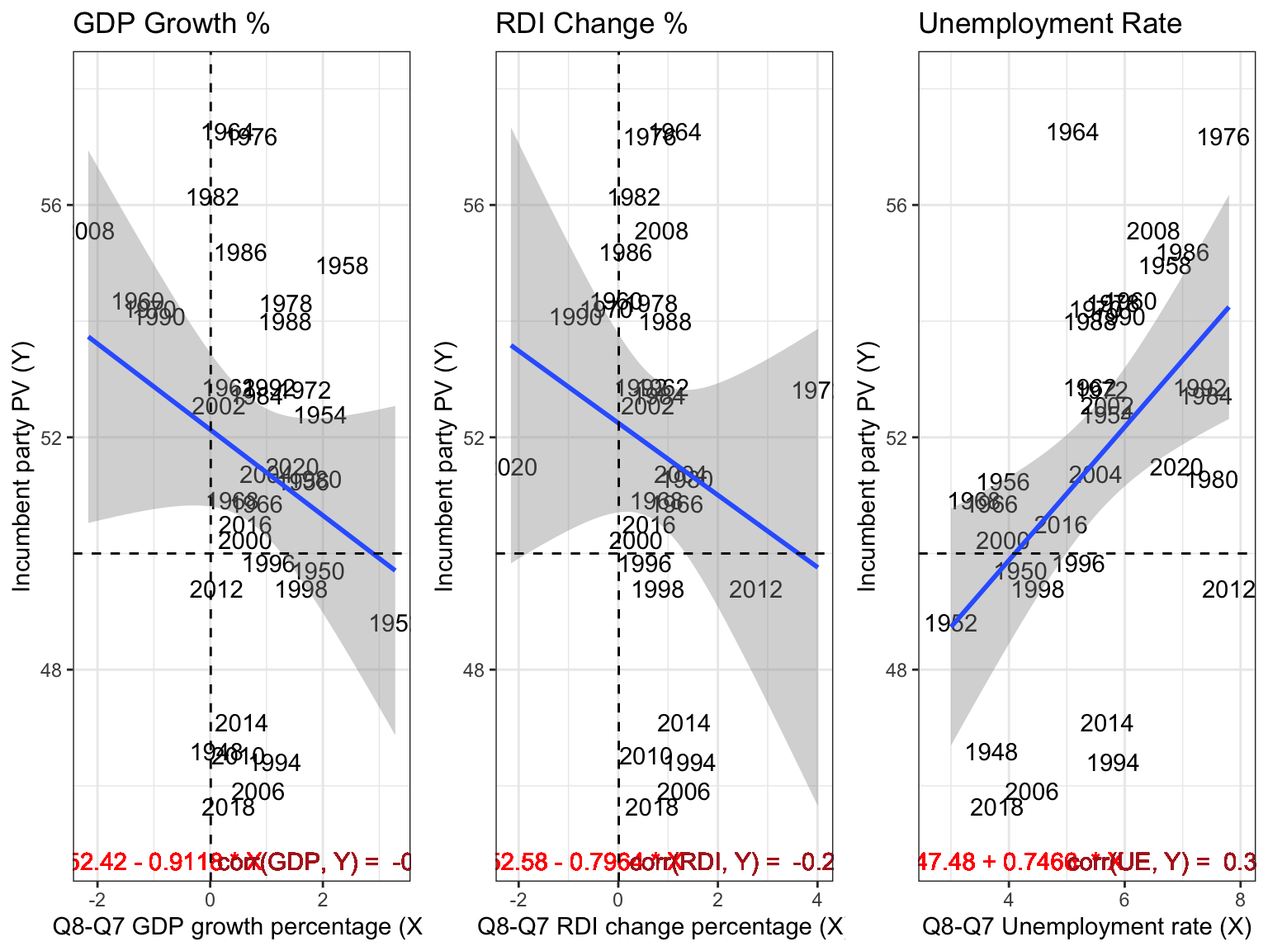
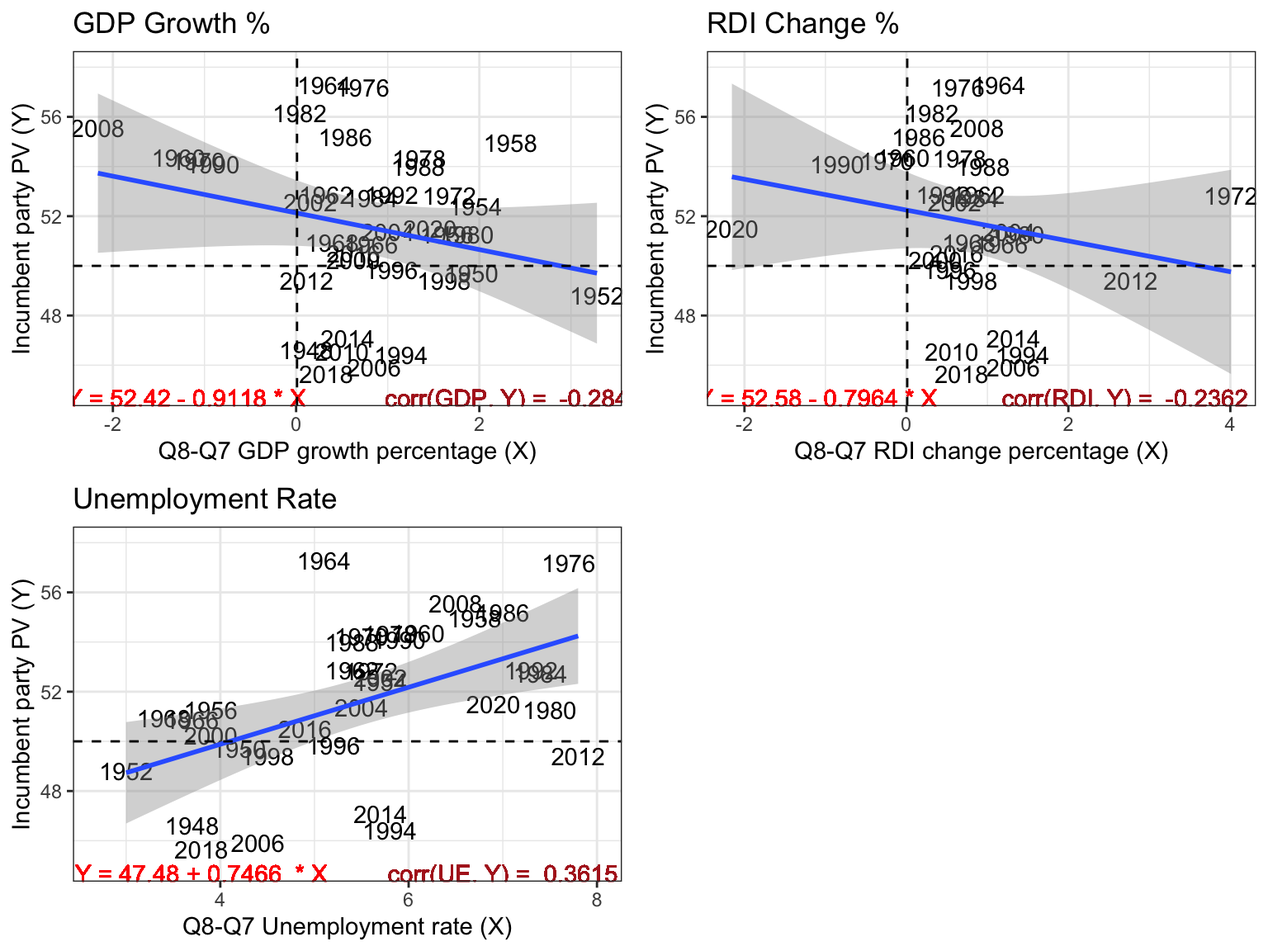
Blog post 2 update

diff --git a/public/post/2022-09-19-local-and-national-economy/index.html b/public/post/2022-09-19-local-and-national-economy/index.html
@@ -77,72 +77,49 @@
 <pre class="r"><code>lm_GDP &lt;- lm(H_incumbent_party_majorvote_pct ~ GDP_growth_pct, data = newdf)
 lm_RDI &lt;- lm(H_incumbent_party_majorvote_pct ~ DSPIC_change_pct, data = newdf)
 lm_UE &lt;- lm(H_incumbent_party_majorvote_pct ~ UNRATE, data = newdf)
-lm_model &lt;- lm(H_incumbent_party_majorvote_pct ~ GDP_growth_pct + DSPIC_change_pct +  GDP_growth_qt + UNRATE, data = newdf)
+lm_model &lt;- lm(H_incumbent_party_majorvote_pct ~ GDP_growth_pct + DSPIC_change_pct + UNRATE + GDP_growth_qt, data = newdf)
 
-stargazer(lm_GDP, lm_RDI, lm_UE, lm_model, title = &quot;Results&quot;, type = &quot;text&quot;, column.labels = c(&quot;GDP&quot;, &quot;RDI&quot;, &quot;UE&quot;, &quot;Model 1&quot;))</code></pre>
+stargazer(lm_GDP, lm_RDI, lm_UE, lm_model, title = &quot;Results&quot;, type = &quot;text&quot;, column.labels = c(&quot;GDP&quot;, &quot;RDI&quot;, &quot;UE&quot;, &quot;Model 1&quot;), covariate.labels = c(&quot;GDP Growth Percentage&quot;, &quot;RDI Change Percentage&quot;, &quot;Unemployment Rate&quot;, &quot;GDP Growth Absolute&quot;))</code></pre>
 <pre><code>## 
 ## Results
-## ====================================================================================================
-##                                                   Dependent variable:                               
-##                     --------------------------------------------------------------------------------
-##                                             H_incumbent_party_majorvote_pct                         
-##                             GDP                RDI                  UE                Model 1       
-##                             (1)                (2)                 (3)                  (4)         
-## ----------------------------------------------------------------------------------------------------
-## GDP_growth_pct            -0.912*                                                      2.903*       
-##                           (0.520)                                                     (1.565)       
-##                                                                                                     
-## DSPIC_change_pct                              -0.796                                  -1.577**      
-##                                              (0.609)                                  (0.675)       
-##                                                                                                     
-## GDP_growth_qt                                                                        -0.036***      
-##                                                                                       (0.013)       
-##                                                                                                     
-## UNRATE                                                           0.747**               0.420        
-##                                                                  (0.325)              (0.337)       
-##                                                                                                     
-## Constant                 52.424***          52.578***           47.480***            51.179***      
-##                           (0.656)            (0.760)             (1.940)              (2.205)       
-##                                                                                                     
-## ----------------------------------------------------------------------------------------------------
-## Observations                37                  31                  37                   31         
-## R2                         0.081              0.056               0.131                0.386        
-## Adjusted R2                0.054              0.023               0.106                0.292        
-## Residual Std. Error   3.270 (df = 35)    3.400 (df = 29)     3.180 (df = 35)      2.895 (df = 26)   
-## F Statistic         3.071* (df = 1; 35) 1.713 (df = 1; 29) 5.263** (df = 1; 35) 4.094** (df = 4; 26)
-## ====================================================================================================
-## Note:                                                                    *p&lt;0.1; **p&lt;0.05; ***p&lt;0.01</code></pre>
+## ======================================================================================================
+##                                                     Dependent variable:                               
+##                       --------------------------------------------------------------------------------
+##                                               H_incumbent_party_majorvote_pct                         
+##                               GDP                RDI                  UE                Model 1       
+##                               (1)                (2)                 (3)                  (4)         
+## ------------------------------------------------------------------------------------------------------
+## GDP Growth Percentage       -0.912*                                                      2.903*       
+##                             (0.520)                                                     (1.565)       
+##                                                                                                       
+## RDI Change Percentage                           -0.796                                  -1.577**      
+##                                                (0.609)                                  (0.675)       
+##                                                                                                       
+## Unemployment Rate                                                  0.747**               0.420        
+##                                                                    (0.325)              (0.337)       
+##                                                                                                       
+## GDP Growth Absolute                                                                    -0.036***      
+##                                                                                         (0.013)       
+##                                                                                                       
+## Constant                   52.424***          52.578***           47.480***            51.179***      
+##                             (0.656)            (0.760)             (1.940)              (2.205)       
+##                                                                                                       
+## ------------------------------------------------------------------------------------------------------
+## Observations                  37                  31                  37                   31         
+## R2                           0.081              0.056               0.131                0.386        
+## Adjusted R2                  0.054              0.023               0.106                0.292        
+## Residual Std. Error     3.270 (df = 35)    3.400 (df = 29)     3.180 (df = 35)      2.895 (df = 26)   
+## F Statistic           3.071* (df = 1; 35) 1.713 (df = 1; 29) 5.263** (df = 1; 35) 4.094** (df = 4; 26)
+## ======================================================================================================
+## Note:                                                                      *p&lt;0.1; **p&lt;0.05; ***p&lt;0.01</code></pre>
 <p>My development of Model 1 finds that GDP, RDI, and unemployment all influence House incumbent vote share, but in varying directions and with varying levels of statistical significance. For GDP growth (%), Model 1 anticipates that as it grows by 1, House incumbent vote share will too by 2.9, which makes more sense. However, for GDP growth (absolute) and unemployment rate, increases in these are still associated with decreases in incumbent vote share.</p>
 <p>These results are again fascinating, as they are counter-intuitive and don’t follow the traditional knowledge political scientists lean on concerning retrospective voting, economic performance, and incumbent success. That said, Model 1 has an R-squared value of 0.386, which is much higher than the univariate R-squared values previously found.</p>
-<p><img src="http://example.org/post/2022-09-19-local-and-national-economy/index_files/figure-html/unnamed-chunk-5-1.png" width="30%" style="display: block; margin: auto;" /></p>
+<p><img src="http://example.org/post/2022-09-19-local-and-national-economy/index_files/figure-html/unnamed-chunk-5-1.png" width="672" style="display: block; margin: auto;" /></p>
 <p>To evaluate the performance of my model and choice of model, I check the residuals. As shown below, they are roughly normally distributed around a center point of 0. This tells me that the form of Model 1 (linear) is adequate.</p>
-<p><img src="http://example.org/post/2022-09-19-local-and-national-economy/index_files/figure-html/unnamed-chunk-6-1.png" width="70%" style="display: block; margin: auto;" /></p>
-<p><img src="http://example.org/post/2022-09-19-local-and-national-economy/index_files/figure-html/unnamed-chunk-8-1.png" width="70%" style="display: block; margin: auto;" />
-After checking that Model 1 performs well after being tested with 1,000 runs of cross-validation, with a mean-error of roughly 1, I move to applying Model 1 to the most recent Q8 data available for the national economic variables in the model. This data comes from 2020, where</p>
-<pre class="r"><code>GDP_new &lt;- GDPquarterly_df %&gt;%
-    subset(year == 2020 &amp; quarter_cycle == 8) %&gt;%
-    select(GDP_growth_pct)
-UNRATE_new &lt;- UEquarterly_df %&gt;%
-    subset(year == 2020 &amp; quarter_cycle == 4) %&gt;%
-    select(UNRATE)
-DSPIC_new &lt;- RDIquarterly_df %&gt;%
-    subset(year == 2020 &amp; quarter_cycle == 8) %&gt;%
-    select(DSPIC_change_pct)
-GDP_qt_new &lt;- GDPquarterly_df %&gt;%
-    subset(year == 2020 &amp; quarter_cycle == 8) %&gt;%
-    select(GDP_growth_qt)
-
-new_data &lt;- data.frame(GDP_new, DSPIC_new, GDP_qt_new, UNRATE_new)
-
-predict(lm_model, new_data, interval=&quot;confidence&quot;)
-
-newdf %&gt;%
-  filter(year == 2020) %&gt;%
-  summarise(actual = H_incumbent_party_majorvote_pct)
-
-#Interpretation: This means that, according to our model, a year with these traits, on average, has a (stopping distance ranging between 51.83 and 62.44 ft)46, 54) H incumbent vote share</code></pre>
-<p>Though my model predicted the House popular vote share of 2020 well, even given the novel nature of the economics of that COVID-ridden election cycle, it still can be improved with wider purview into House incumbent seat share and totals. As discussion in Gov 1347: Election Analytics, for House races, it is often the actual seats in the House that matter to parties and party members. Due</p>
-<p>Wright wrote in 2012 that worsened (so, increased) unemployment affects Democrats differently than it does Republicans. I wonder if this finding holds when we focus specifically on House elections – this would be interesting to explore given more time.</p>
+<p><img src="http://example.org/post/2022-09-19-local-and-national-economy/index_files/figure-html/unnamed-chunk-6-1.png" width="672" style="display: block; margin: auto;" /></p>
+<p><img src="http://example.org/post/2022-09-19-local-and-national-economy/index_files/figure-html/unnamed-chunk-8-1.png" width="672" style="display: block; margin: auto;" />
+After checking that Model 1 performs well after being tested with 1,000 runs of cross-validation, with a mean-error of roughly 0, I move to applying Model 1 to the most recent data available for the national economic variables in the model. This data comes from Q2 2022, which is equivalent to Q6 of the current House. The reports indicate that in Q2 (or Q6), there was a -0.6% change in GDP, -0.6% change in RDI, -28.453 absolute change in GDPC1 (Real GDP, measured in billions of chained 2012 Dollars), and 3.6 national unemployment rate. <strong>With these inputs, Model 1 predicts that the incumbent party in the House (the Democratic Party) will have a vote share of 52.92% (50.20, 55.64).</strong></p>
+<p>This prediction is probably an overestimate given the fact that Model 1 did not account for the negative incumbent-midterm effect. Additionally, Model 1 should be used again once Q8 (so, Q4 of 2022) data becomes available to maximize its predictive power. The model can also be improved with wider purview into House incumbent seat share and totals. Lastly, Wright found that worsened (so, increased) unemployment affects Democrats differently than it does Republicans. Given more time, I would expore if this finding holds when we focus specifically on House elections.</p>
 <hr />
 <p><strong>References</strong></p>
 <p>[1] Achen, &amp; Bartels, L. M. (2017). Democracy for realists (REV - Revised). Princeton University Press.
@@ -150,6 +127,10 @@ newdf %&gt;%
 <p>[2] Healy, &amp; Lenz, G. S. (2014). Substituting the End for the Whole: Why Voters Respond Primarily to the Election-Year Economy. American Journal of Political Science, 58(1), 31–47. <a href="https://doi.org/10.1111/ajps.12053" class="uri">https://doi.org/10.1111/ajps.12053</a></p>
 <p>[3] Wright. (2012). Unemployment and the Democratic Electoral Advantage. The American Political Science Review, 106(4), 685–702. <a href="https://doi.org/10.1017/S0003055412000330" class="uri">https://doi.org/10.1017/S0003055412000330</a></p>
 <p>[4] Rakich, N., &amp; Mejia, E. (2022, March 31). The house map’s Republican bias will plummet in 2022 - because of gerrymandering. FiveThirtyEight. <a href="https://fivethirtyeight.com/features/the-house-maps-republican-bias-will-plummet-in-2022-because-of-gerrymandering/" class="uri">https://fivethirtyeight.com/features/the-house-maps-republican-bias-will-plummet-in-2022-because-of-gerrymandering/</a></p>
+<p>[5] <a href="https://www.bea.gov/data/gdp/gross-domestic-product" class="uri">https://www.bea.gov/data/gdp/gross-domestic-product</a></p>
+<p>[6] <a href="https://www.bea.gov/news/2022/gross-domestic-product-second-quarter-2022-advance-estimate" class="uri">https://www.bea.gov/news/2022/gross-domestic-product-second-quarter-2022-advance-estimate</a></p>
+<p>[7] <a href="https://fred.stlouisfed.org/series/GDPC1" class="uri">https://fred.stlouisfed.org/series/GDPC1</a></p>
+<p>[8] <a href="https://tradingeconomics.com/united-states/unemployment-rate" class="uri">https://tradingeconomics.com/united-states/unemployment-rate</a></p>
 
 
 		
@@ -166,7 +147,7 @@ newdf %&gt;%
         		<footer>
 			
 			<span>
-			&copy; <time datetime="2022-09-19 18:13:56.82618 -0400 EDT m=&#43;0.254873895">2022</time> . Made with <a href='https://gohugo.io'>Hugo</a> using the <a href='https://github.com/EmielH/tale-hugo/'>Tale</a> theme.
+			&copy; <time datetime="2022-09-20 00:00:30.245231 -0400 EDT m=&#43;0.283950070">2022</time> . Made with <a href='https://gohugo.io'>Hugo</a> using the <a href='https://github.com/EmielH/tale-hugo/'>Tale</a> theme.
 			</span>
 		</footer>
 

diff --git a/content/post/2022-09-19-local-and-national-economy/index.html b/content/post/2022-09-19-local-and-national-economy/index.html
@@ -23,72 +23,49 @@ slug: []
 <pre class="r"><code>lm_GDP &lt;- lm(H_incumbent_party_majorvote_pct ~ GDP_growth_pct, data = newdf)
 lm_RDI &lt;- lm(H_incumbent_party_majorvote_pct ~ DSPIC_change_pct, data = newdf)
 lm_UE &lt;- lm(H_incumbent_party_majorvote_pct ~ UNRATE, data = newdf)
-lm_model &lt;- lm(H_incumbent_party_majorvote_pct ~ GDP_growth_pct + DSPIC_change_pct +  GDP_growth_qt + UNRATE, data = newdf)
+lm_model &lt;- lm(H_incumbent_party_majorvote_pct ~ GDP_growth_pct + DSPIC_change_pct + UNRATE + GDP_growth_qt, data = newdf)
 
-stargazer(lm_GDP, lm_RDI, lm_UE, lm_model, title = &quot;Results&quot;, type = &quot;text&quot;, column.labels = c(&quot;GDP&quot;, &quot;RDI&quot;, &quot;UE&quot;, &quot;Model 1&quot;))</code></pre>
+stargazer(lm_GDP, lm_RDI, lm_UE, lm_model, title = &quot;Results&quot;, type = &quot;text&quot;, column.labels = c(&quot;GDP&quot;, &quot;RDI&quot;, &quot;UE&quot;, &quot;Model 1&quot;), covariate.labels = c(&quot;GDP Growth Percentage&quot;, &quot;RDI Change Percentage&quot;, &quot;Unemployment Rate&quot;, &quot;GDP Growth Absolute&quot;))</code></pre>
 <pre><code>## 
 ## Results
-## ====================================================================================================
-##                                                   Dependent variable:                               
-##                     --------------------------------------------------------------------------------
-##                                             H_incumbent_party_majorvote_pct                         
-##                             GDP                RDI                  UE                Model 1       
-##                             (1)                (2)                 (3)                  (4)         
-## ----------------------------------------------------------------------------------------------------
-## GDP_growth_pct            -0.912*                                                      2.903*       
-##                           (0.520)                                                     (1.565)       
-##                                                                                                     
-## DSPIC_change_pct                              -0.796                                  -1.577**      
-##                                              (0.609)                                  (0.675)       
-##                                                                                                     
-## GDP_growth_qt                                                                        -0.036***      
-##                                                                                       (0.013)       
-##                                                                                                     
-## UNRATE                                                           0.747**               0.420        
-##                                                                  (0.325)              (0.337)       
-##                                                                                                     
-## Constant                 52.424***          52.578***           47.480***            51.179***      
-##                           (0.656)            (0.760)             (1.940)              (2.205)       
-##                                                                                                     
-## ----------------------------------------------------------------------------------------------------
-## Observations                37                  31                  37                   31         
-## R2                         0.081              0.056               0.131                0.386        
-## Adjusted R2                0.054              0.023               0.106                0.292        
-## Residual Std. Error   3.270 (df = 35)    3.400 (df = 29)     3.180 (df = 35)      2.895 (df = 26)   
-## F Statistic         3.071* (df = 1; 35) 1.713 (df = 1; 29) 5.263** (df = 1; 35) 4.094** (df = 4; 26)
-## ====================================================================================================
-## Note:                                                                    *p&lt;0.1; **p&lt;0.05; ***p&lt;0.01</code></pre>
+## ======================================================================================================
+##                                                     Dependent variable:                               
+##                       --------------------------------------------------------------------------------
+##                                               H_incumbent_party_majorvote_pct                         
+##                               GDP                RDI                  UE                Model 1       
+##                               (1)                (2)                 (3)                  (4)         
+## ------------------------------------------------------------------------------------------------------
+## GDP Growth Percentage       -0.912*                                                      2.903*       
+##                             (0.520)                                                     (1.565)       
+##                                                                                                       
+## RDI Change Percentage                           -0.796                                  -1.577**      
+##                                                (0.609)                                  (0.675)       
+##                                                                                                       
+## Unemployment Rate                                                  0.747**               0.420        
+##                                                                    (0.325)              (0.337)       
+##                                                                                                       
+## GDP Growth Absolute                                                                    -0.036***      
+##                                                                                         (0.013)       
+##                                                                                                       
+## Constant                   52.424***          52.578***           47.480***            51.179***      
+##                             (0.656)            (0.760)             (1.940)              (2.205)       
+##                                                                                                       
+## ------------------------------------------------------------------------------------------------------
+## Observations                  37                  31                  37                   31         
+## R2                           0.081              0.056               0.131                0.386        
+## Adjusted R2                  0.054              0.023               0.106                0.292        
+## Residual Std. Error     3.270 (df = 35)    3.400 (df = 29)     3.180 (df = 35)      2.895 (df = 26)   
+## F Statistic           3.071* (df = 1; 35) 1.713 (df = 1; 29) 5.263** (df = 1; 35) 4.094** (df = 4; 26)
+## ======================================================================================================
+## Note:                                                                      *p&lt;0.1; **p&lt;0.05; ***p&lt;0.01</code></pre>
 <p>My development of Model 1 finds that GDP, RDI, and unemployment all influence House incumbent vote share, but in varying directions and with varying levels of statistical significance. For GDP growth (%), Model 1 anticipates that as it grows by 1, House incumbent vote share will too by 2.9, which makes more sense. However, for GDP growth (absolute) and unemployment rate, increases in these are still associated with decreases in incumbent vote share.</p>
 <p>These results are again fascinating, as they are counter-intuitive and don’t follow the traditional knowledge political scientists lean on concerning retrospective voting, economic performance, and incumbent success. That said, Model 1 has an R-squared value of 0.386, which is much higher than the univariate R-squared values previously found.</p>
-<p><img src="{{< blogdown/postref >}}index_files/figure-html/unnamed-chunk-5-1.png" width="30%" style="display: block; margin: auto;" /></p>
+<p><img src="{{< blogdown/postref >}}index_files/figure-html/unnamed-chunk-5-1.png" width="672" style="display: block; margin: auto;" /></p>
 <p>To evaluate the performance of my model and choice of model, I check the residuals. As shown below, they are roughly normally distributed around a center point of 0. This tells me that the form of Model 1 (linear) is adequate.</p>
-<p><img src="{{< blogdown/postref >}}index_files/figure-html/unnamed-chunk-6-1.png" width="70%" style="display: block; margin: auto;" /></p>
-<p><img src="{{< blogdown/postref >}}index_files/figure-html/unnamed-chunk-8-1.png" width="70%" style="display: block; margin: auto;" />
-After checking that Model 1 performs well after being tested with 1,000 runs of cross-validation, with a mean-error of roughly 1, I move to applying Model 1 to the most recent Q8 data available for the national economic variables in the model. This data comes from 2020, where</p>
-<pre class="r"><code>GDP_new &lt;- GDPquarterly_df %&gt;%
-    subset(year == 2020 &amp; quarter_cycle == 8) %&gt;%
-    select(GDP_growth_pct)
-UNRATE_new &lt;- UEquarterly_df %&gt;%
-    subset(year == 2020 &amp; quarter_cycle == 4) %&gt;%
-    select(UNRATE)
-DSPIC_new &lt;- RDIquarterly_df %&gt;%
-    subset(year == 2020 &amp; quarter_cycle == 8) %&gt;%
-    select(DSPIC_change_pct)
-GDP_qt_new &lt;- GDPquarterly_df %&gt;%
-    subset(year == 2020 &amp; quarter_cycle == 8) %&gt;%
-    select(GDP_growth_qt)
-
-new_data &lt;- data.frame(GDP_new, DSPIC_new, GDP_qt_new, UNRATE_new)
-
-predict(lm_model, new_data, interval=&quot;confidence&quot;)
-
-newdf %&gt;%
-  filter(year == 2020) %&gt;%
-  summarise(actual = H_incumbent_party_majorvote_pct)
-
-#Interpretation: This means that, according to our model, a year with these traits, on average, has a (stopping distance ranging between 51.83 and 62.44 ft)46, 54) H incumbent vote share</code></pre>
-<p>Though my model predicted the House popular vote share of 2020 well, even given the novel nature of the economics of that COVID-ridden election cycle, it still can be improved with wider purview into House incumbent seat share and totals. As discussion in Gov 1347: Election Analytics, for House races, it is often the actual seats in the House that matter to parties and party members. Due</p>
-<p>Wright wrote in 2012 that worsened (so, increased) unemployment affects Democrats differently than it does Republicans. I wonder if this finding holds when we focus specifically on House elections – this would be interesting to explore given more time.</p>
+<p><img src="{{< blogdown/postref >}}index_files/figure-html/unnamed-chunk-6-1.png" width="672" style="display: block; margin: auto;" /></p>
+<p><img src="{{< blogdown/postref >}}index_files/figure-html/unnamed-chunk-8-1.png" width="672" style="display: block; margin: auto;" />
+After checking that Model 1 performs well after being tested with 1,000 runs of cross-validation, with a mean-error of roughly 0, I move to applying Model 1 to the most recent data available for the national economic variables in the model. This data comes from Q2 2022, which is equivalent to Q6 of the current House. The reports indicate that in Q2 (or Q6), there was a -0.6% change in GDP, -0.6% change in RDI, -28.453 absolute change in GDPC1 (Real GDP, measured in billions of chained 2012 Dollars), and 3.6 national unemployment rate. <strong>With these inputs, Model 1 predicts that the incumbent party in the House (the Democratic Party) will have a vote share of 52.92% (50.20, 55.64).</strong></p>
+<p>This prediction is probably an overestimate given the fact that Model 1 did not account for the negative incumbent-midterm effect. Additionally, Model 1 should be used again once Q8 (so, Q4 of 2022) data becomes available to maximize its predictive power. The model can also be improved with wider purview into House incumbent seat share and totals. Lastly, Wright found that worsened (so, increased) unemployment affects Democrats differently than it does Republicans. Given more time, I would expore if this finding holds when we focus specifically on House elections.</p>
 <hr />
 <p><strong>References</strong></p>
 <p>[1] Achen, &amp; Bartels, L. M. (2017). Democracy for realists (REV - Revised). Princeton University Press.
@@ -96,3 +73,7 @@ newdf %&gt;%
 <p>[2] Healy, &amp; Lenz, G. S. (2014). Substituting the End for the Whole: Why Voters Respond Primarily to the Election-Year Economy. American Journal of Political Science, 58(1), 31–47. <a href="https://doi.org/10.1111/ajps.12053" class="uri">https://doi.org/10.1111/ajps.12053</a></p>
 <p>[3] Wright. (2012). Unemployment and the Democratic Electoral Advantage. The American Political Science Review, 106(4), 685–702. <a href="https://doi.org/10.1017/S0003055412000330" class="uri">https://doi.org/10.1017/S0003055412000330</a></p>
 <p>[4] Rakich, N., &amp; Mejia, E. (2022, March 31). The house map’s Republican bias will plummet in 2022 - because of gerrymandering. FiveThirtyEight. <a href="https://fivethirtyeight.com/features/the-house-maps-republican-bias-will-plummet-in-2022-because-of-gerrymandering/" class="uri">https://fivethirtyeight.com/features/the-house-maps-republican-bias-will-plummet-in-2022-because-of-gerrymandering/</a></p>
+<p>[5] <a href="https://www.bea.gov/data/gdp/gross-domestic-product" class="uri">https://www.bea.gov/data/gdp/gross-domestic-product</a></p>
+<p>[6] <a href="https://www.bea.gov/news/2022/gross-domestic-product-second-quarter-2022-advance-estimate" class="uri">https://www.bea.gov/news/2022/gross-domestic-product-second-quarter-2022-advance-estimate</a></p>
+<p>[7] <a href="https://fred.stlouisfed.org/series/GDPC1" class="uri">https://fred.stlouisfed.org/series/GDPC1</a></p>
+<p>[8] <a href="https://tradingeconomics.com/united-states/unemployment-rate" class="uri">https://tradingeconomics.com/united-states/unemployment-rate</a></p>

diff --git a/public/index.html b/public/index.html
@@ -94,7 +94,7 @@ Over the next several weeks, I will be exploring previous U.S. elections data to
         		<footer>
 			
 			<span>
-			&copy; <time datetime="2022-09-19 18:13:56.789478 -0400 EDT m=&#43;0.218173457">2022</time> . Made with <a href='https://gohugo.io'>Hugo</a> using the <a href='https://github.com/EmielH/tale-hugo/'>Tale</a> theme.
+			&copy; <time datetime="2022-09-20 00:00:30.207636 -0400 EDT m=&#43;0.246354045">2022</time> . Made with <a href='https://gohugo.io'>Hugo</a> using the <a href='https://github.com/EmielH/tale-hugo/'>Tale</a> theme.
 			</span>
 		</footer>
 

diff --git a/public/post/2022-09-15-analzying-2020-house-vote-shares/index.html b/public/post/2022-09-15-analzying-2020-house-vote-shares/index.html
@@ -97,7 +97,7 @@ Unlike the previous swing comparison, the 2020-2018 comparison reveals that most
         		<footer>
 			
 			<span>
-			&copy; <time datetime="2022-09-19 18:13:56.789905 -0400 EDT m=&#43;0.218599776">2022</time> . Made with <a href='https://gohugo.io'>Hugo</a> using the <a href='https://github.com/EmielH/tale-hugo/'>Tale</a> theme.
+			&copy; <time datetime="2022-09-20 00:00:30.206203 -0400 EDT m=&#43;0.244921552">2022</time> . Made with <a href='https://gohugo.io'>Hugo</a> using the <a href='https://github.com/EmielH/tale-hugo/'>Tale</a> theme.
 			</span>
 		</footer>
 

diff --git a/public/post/index.html b/public/post/index.html
@@ -89,7 +89,7 @@ Over the next several weeks, I will be exploring previous U.S. elections data to
         		<footer>
 			
 			<span>
-			&copy; <time datetime="2022-09-19 18:13:56.78949 -0400 EDT m=&#43;0.218185500">2022</time> . Made with <a href='https://gohugo.io'>Hugo</a> using the <a href='https://github.com/EmielH/tale-hugo/'>Tale</a> theme.
+			&copy; <time datetime="2022-09-20 00:00:30.207597 -0400 EDT m=&#43;0.246315287">2022</time> . Made with <a href='https://gohugo.io'>Hugo</a> using the <a href='https://github.com/EmielH/tale-hugo/'>Tale</a> theme.
 			</span>
 		</footer>
 

diff --git a/public/categories/index.html b/public/categories/index.html
@@ -57,7 +57,7 @@
         		<footer>
 			
 			<span>
-			&copy; <time datetime="2022-09-19 18:13:56.787747 -0400 EDT m=&#43;0.216441904">2022</time> . Made with <a href='https://gohugo.io'>Hugo</a> using the <a href='https://github.com/EmielH/tale-hugo/'>Tale</a> theme.
+			&copy; <time datetime="2022-09-20 00:00:30.205585 -0400 EDT m=&#43;0.244303702">2022</time> . Made with <a href='https://gohugo.io'>Hugo</a> using the <a href='https://github.com/EmielH/tale-hugo/'>Tale</a> theme.
 			</span>
 		</footer>
 

diff --git a/public/tags/index.html b/public/tags/index.html
@@ -57,7 +57,7 @@
         		<footer>
 			
 			<span>
-			&copy; <time datetime="2022-09-19 18:13:56.781804 -0400 EDT m=&#43;0.210499139">2022</time> . Made with <a href='https://gohugo.io'>Hugo</a> using the <a href='https://github.com/EmielH/tale-hugo/'>Tale</a> theme.
+			&copy; <time datetime="2022-09-20 00:00:30.201285 -0400 EDT m=&#43;0.240003085">2022</time> . Made with <a href='https://gohugo.io'>Hugo</a> using the <a href='https://github.com/EmielH/tale-hugo/'>Tale</a> theme.
 			</span>
 		</footer>
 
